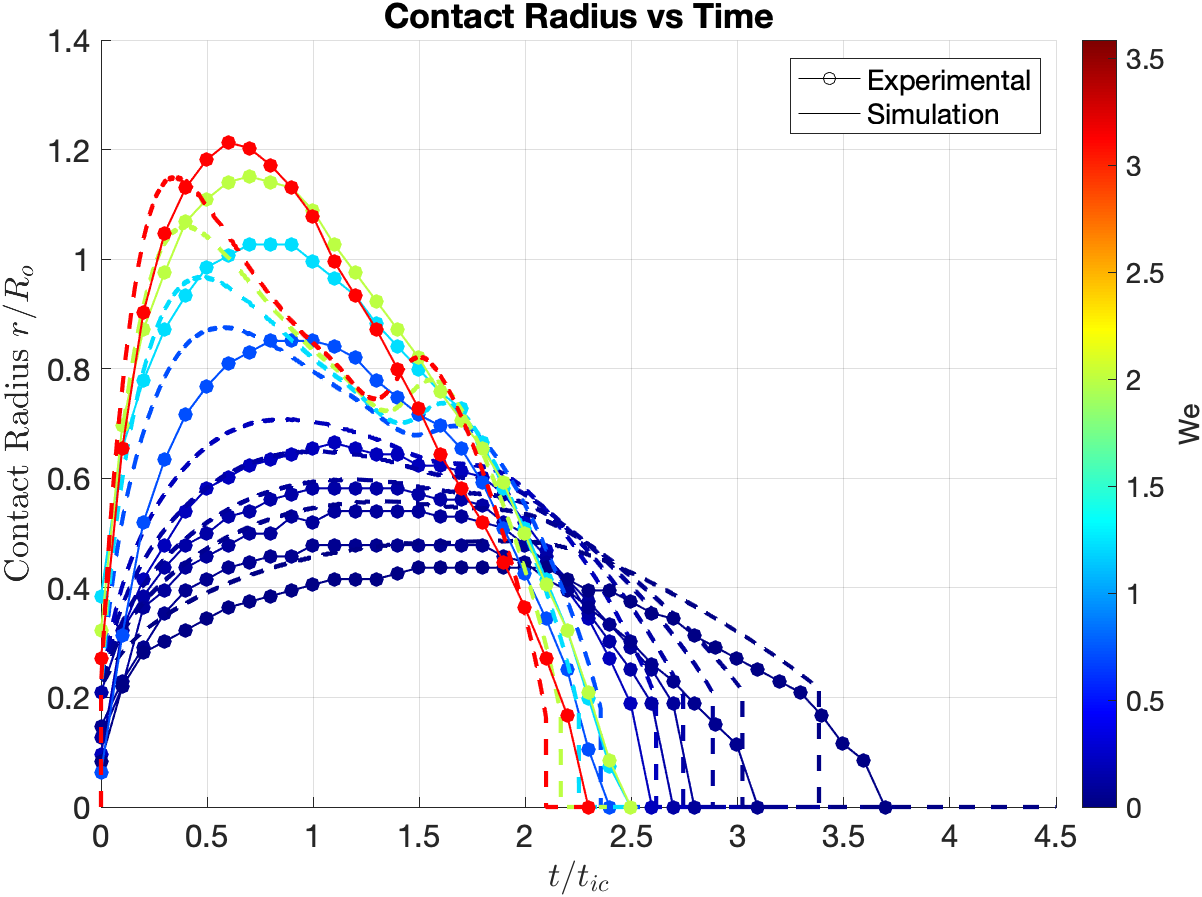
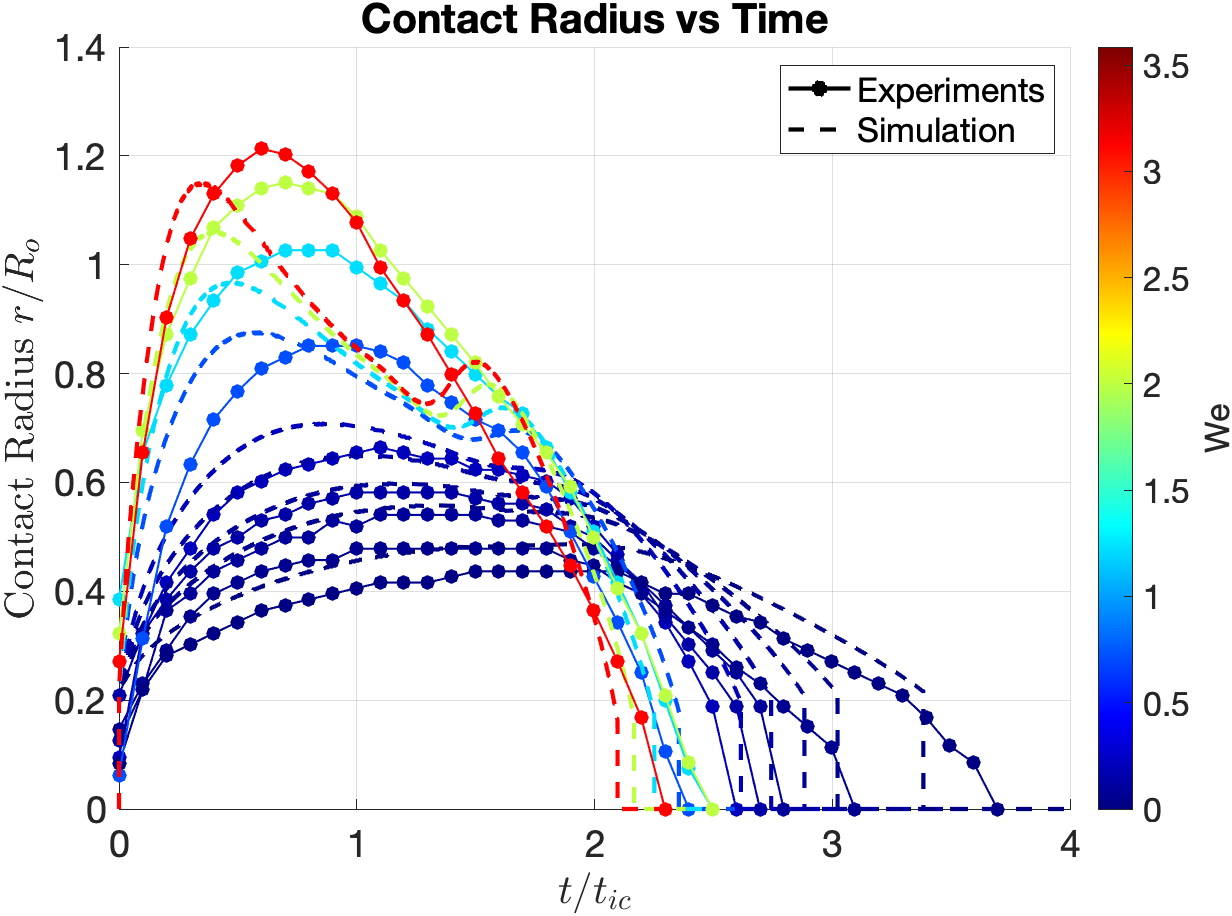
diret comparison plots

Changed region(s): [[0.0, 0.0, 1.0, 0.9989], [0.0308, 0.1561, 0.0923, 0.1873], [0.0308, 0.0312, 0.0923, 0.0624]]

diff --git a/matlab/1_code/contact_radius_max_width_plotter.m b/matlab/1_code/contact_radius_max_width_plotter.m
@@ -111,10 +111,10 @@ colormap jet;  % You can choose different colormaps (e.g., 'parula', 'jet', 'hot
 cb = colorbar;  % Show the color scale
 caxis([0 3.58]);
 ylabel(cb, 'We');
-set(gca, 'FontSize', 15);
-h1 = plot(NaN, NaN, 'ko-');  % Dummy plot for first legend entry
-h2 = plot(NaN, NaN, 'k-');  % Dummy plot for second legend entry
-legend([h1, h2], 'Experimental', 'Simulation');
+set(gca, 'FontSize', 18);
+h1 = plot(NaN, NaN, 'ko-', 'MarkerFaceColor', 'k', 'LineWidth', 2);  % Dummy plot for first legend entry
+h2 = plot(NaN, NaN, 'k--', 'LineWidth', 2);  % Dummy plot for second legend entry
+legend([h1, h2], 'Experiments', 'Simulation');
 
 figure(2); grid on;
 xlabel('$t/t_{ic}$', 'Interpreter', ' latex');
@@ -125,7 +125,11 @@ colormap jet;  % You can choose different colormaps (e.g., 'parula', 'jet', 'hot
 cb = colorbar;  % Show the color scale
 caxis([0 3.58]);
 ylabel(cb, 'We');
-set(gca, 'FontSize', 15);
+xlim([0 3]);
+set(gca, 'FontSize', 18);
+h1 = plot(NaN, NaN, 'ko-', 'MarkerFaceColor', 'k', 'LineWidth', 2);  % Dummy plot for first legend entry
+h2 = plot(NaN, NaN, 'k--', 'LineWidth', 2);  % Dummy plot for second legend entry
+legend([h1, h2], 'Experiments', 'Simulation')
 
 %filtered_data = rmfield(data, fieldnames(data(cellfun(@(f) ~contains(f, 'Bounce'), fieldnames(data))))');
 
